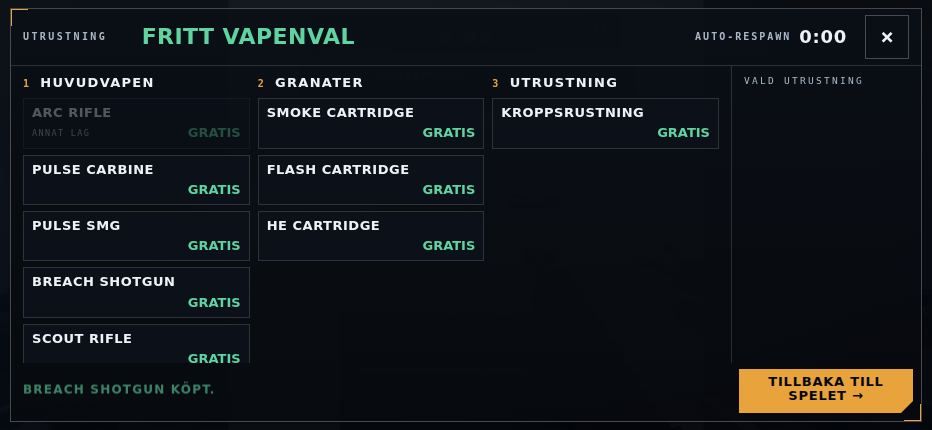
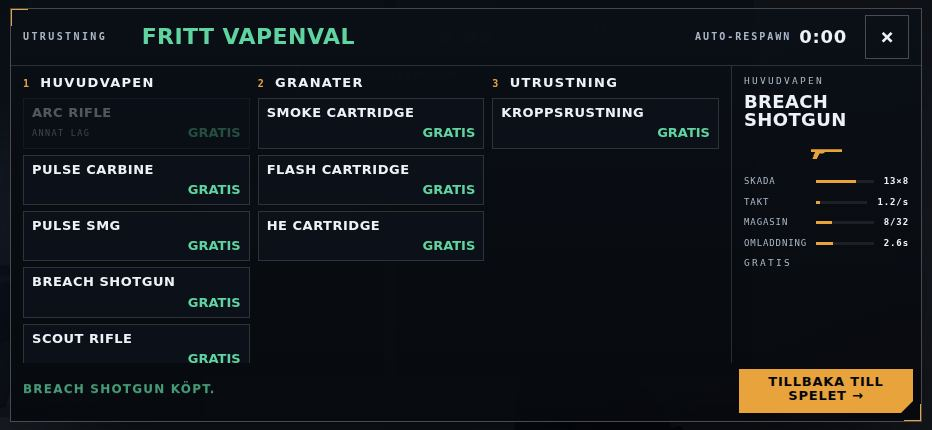
Verify tap purchases, cold launch recovery and desktop smoke outcome

diff --git a/docs/playtest-audit/README.md b/docs/playtest-audit/README.md
@@ -50,7 +50,7 @@ No universal P0 was reproduced on the WebGL-capable path. A machine without a wo
 
 **Screenshots.** [844×390 HUD before](touch-before.jpg) · [After](touch-after.jpg) · [932×430 Endless before](endless-before.jpg) · [After](endless-after.jpg) · [Final Classic result](match-result.jpg).
 
-[Landscape lobby](lobby-932.jpg) · [Touch shop](shop-932.jpg) · [Tactical map](tactical-map.jpg) · [Scoreboard](scoreboard.jpg) · [Pause and settings](pause.jpg).
+[Landscape lobby](lobby-932.jpg) · [Touch purchase before](shop-932-before.jpg) · [After](shop-932.jpg) · [Tactical map](tactical-map.jpg) · [Scoreboard](scoreboard.jpg) · [Pause and settings](pause.jpg).
 
 ## Architecture and performance
 
@@ -84,7 +84,7 @@ The main renderer and lobby preview have separate frame schedulers. The preview 
 
 ## Reproduction commands
 
-The Node suite passed 158/158, and the manifest and published-map door checks passed. The standalone launch regression passed with the controller, engine and font held, including a real retry into gameplay and the post-match return. Earlier browser runs hit automation timeouts on the shared software renderer. One timed out tapping pause in the original mobile smoke. Dedicated input and lifecycle runs separately exercised that action successfully.
+The Node suite passed 158/158, and the manifest and published-map door checks passed. The standalone launch regression passed with the controller, engine and font held, including a real retry into gameplay and the post-match return. Earlier browser runs hit automation timeouts on the shared software renderer. One timed out tapping pause in the original mobile smoke. The final 844×390 mobile smoke passed, including immediate manual firing after the settings change. A cold default-graphics 1280×720 desktop smoke also timed out waiting 180 s for engine readiness on the shared software renderer. The same default-graphics smoke passed in isolation with one lock request, no mobile overlay and a live buy phase. Its lock request is stubbed by the repository test. The separate lower-graphics desktop journey acquired real mouse lock and completed the match. Physical hardware startup time remains open.
 
 Run from the repository root with Node. For browser runs, install Playwright Core and Chromium in the environment used by the repository's existing browser scripts. Serve the repository with `python3 -m http.server 8765` in another terminal.
 
